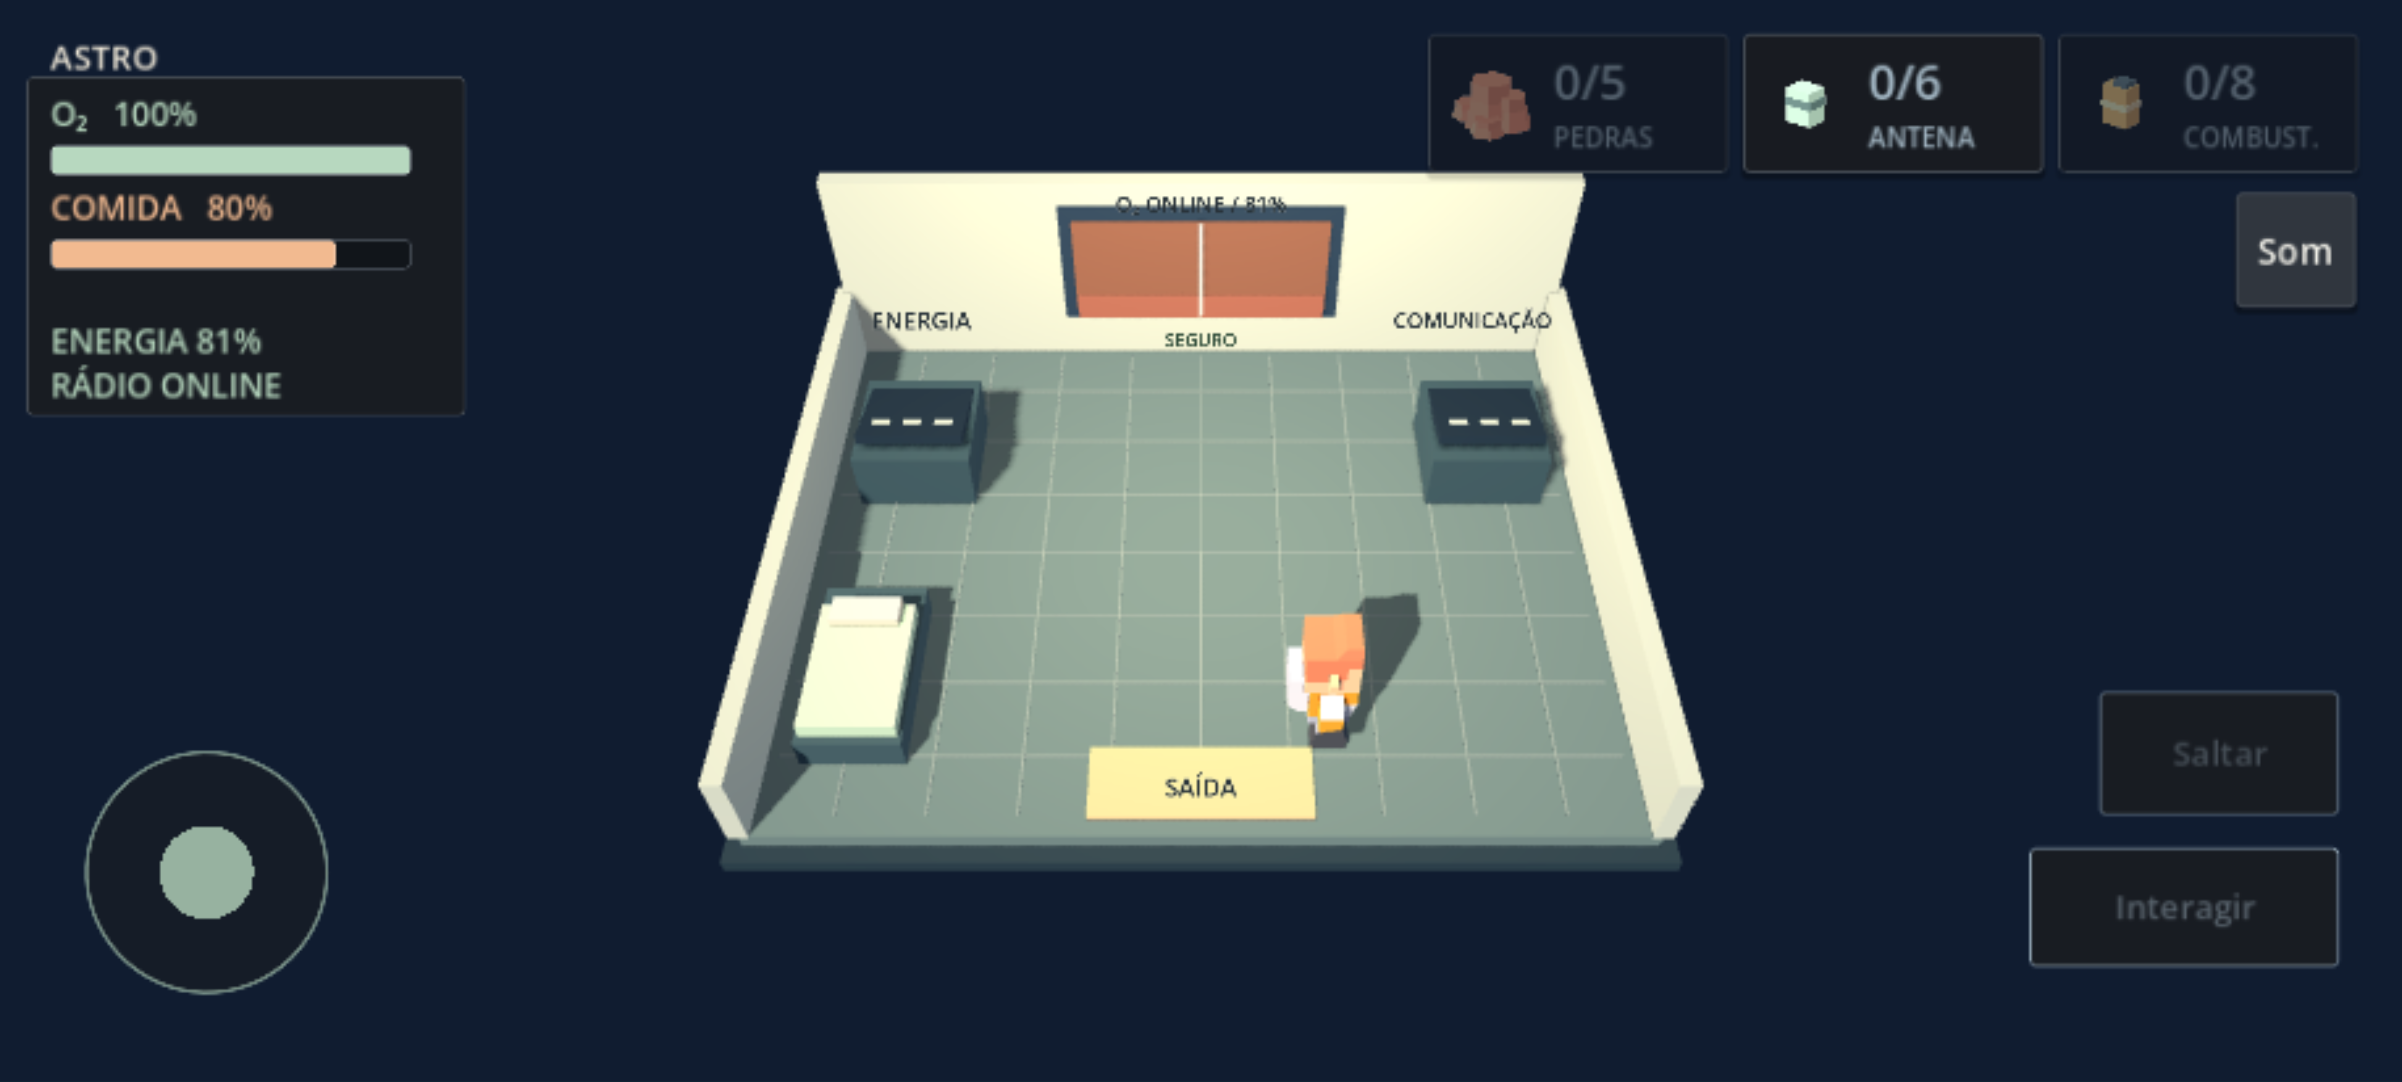
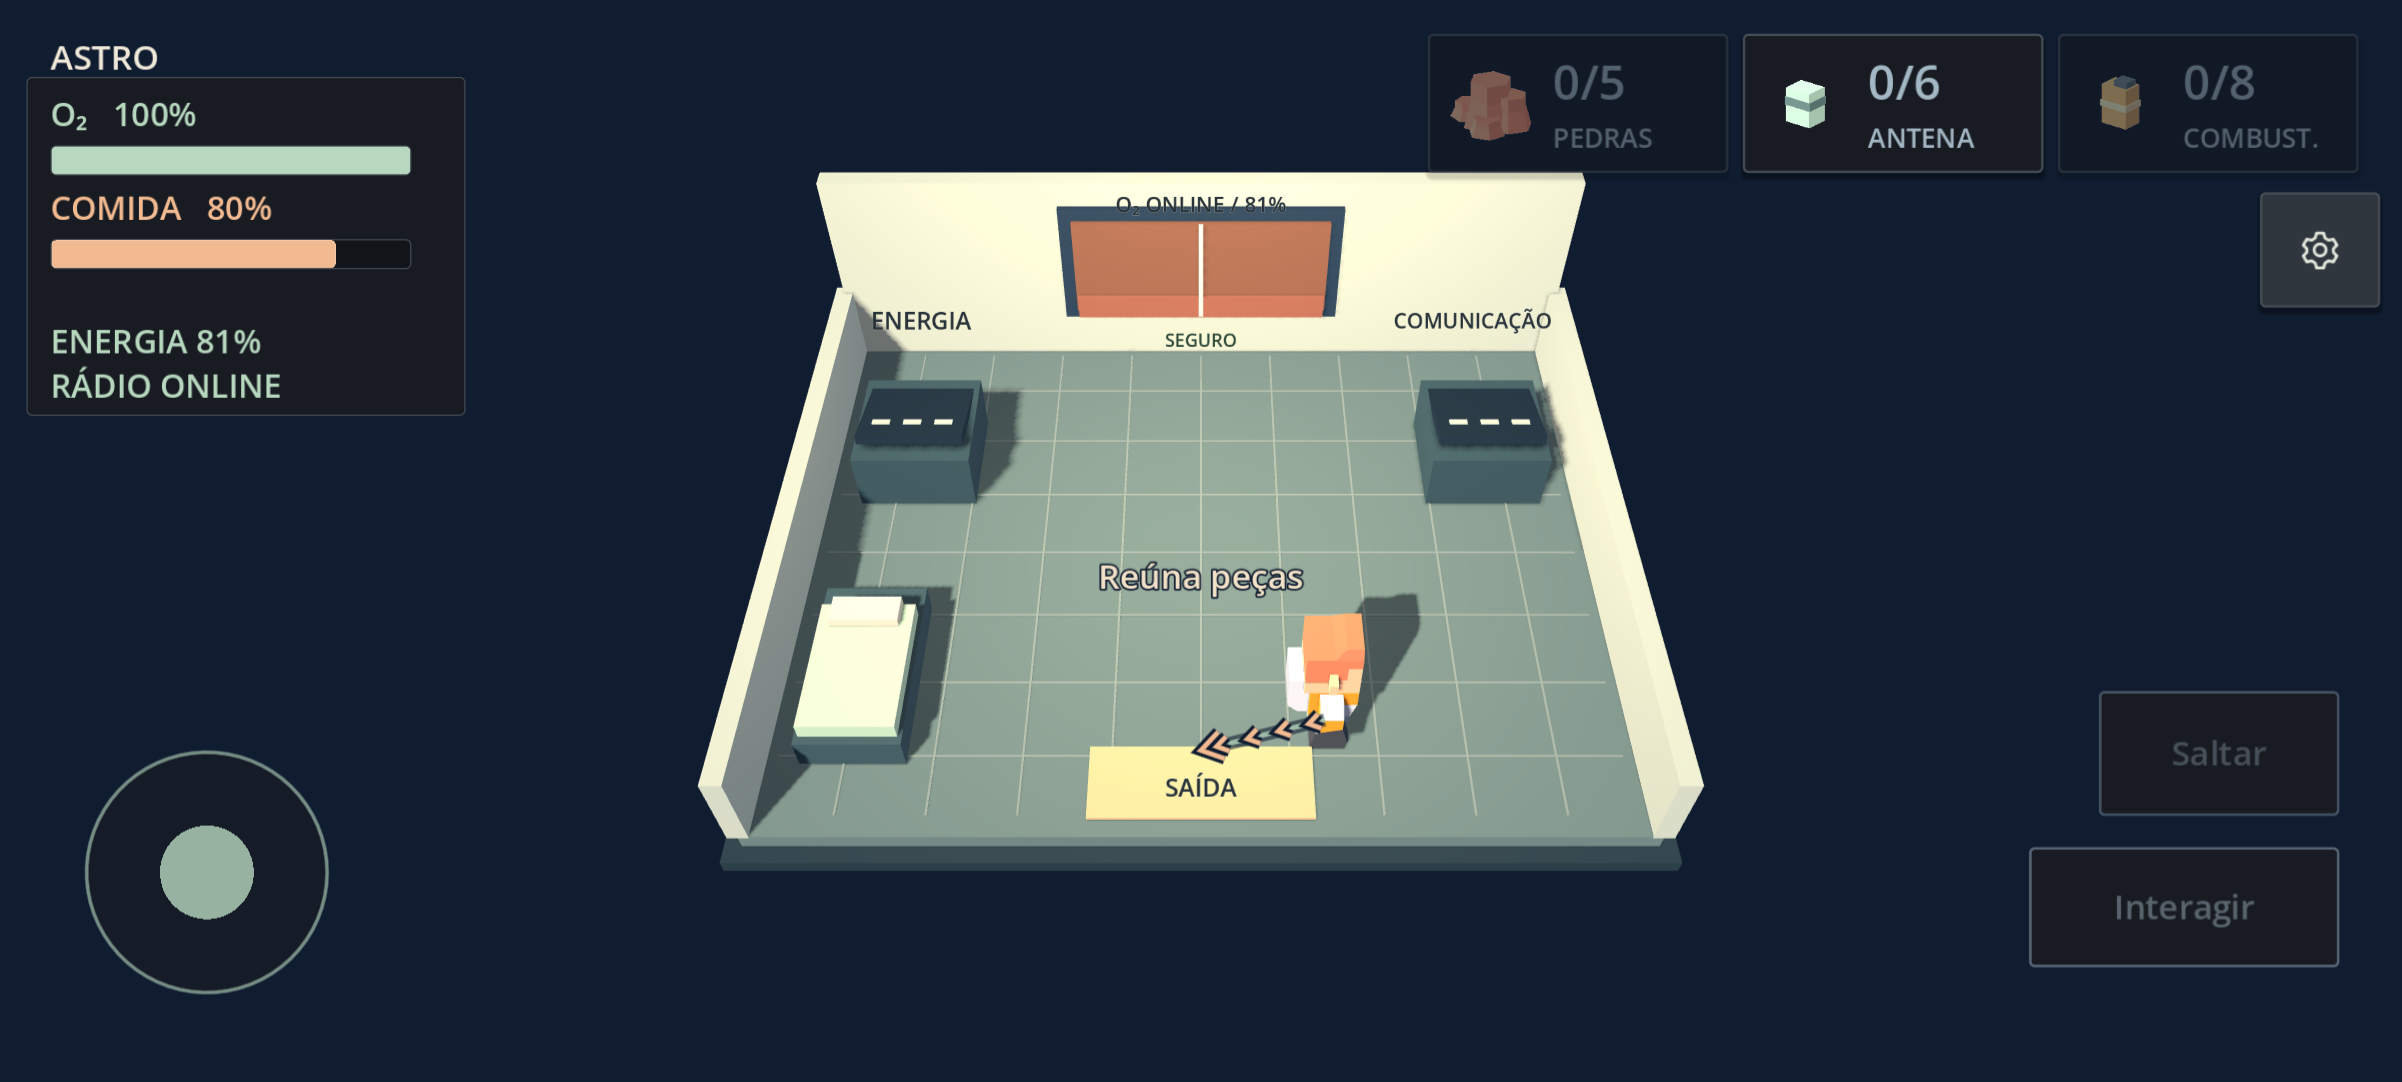
Prioritize single objectives, draw astronaut routes and fix mobile canvas sizing

diff --git a/web/shell.html b/web/shell.html
@@ -7,8 +7,8 @@
   <title>Astro · Um Pequeno Recomeço</title>
   <style>
     html,body { margin:0; width:100%; height:100%; overflow:hidden; background:#102334; color:#f0e9d9; font:18px system-ui,sans-serif; overscroll-behavior:none }
-    #game { position:fixed; top:env(safe-area-inset-top,0px); right:env(safe-area-inset-right,0px); bottom:env(safe-area-inset-bottom,0px); left:env(safe-area-inset-left,0px) }
-    canvas { display:block; width:100%; height:100%; touch-action:none; outline:none }
+    #game { position:fixed; top:0; left:0; width:100vw; height:100dvh; box-sizing:border-box; padding:env(safe-area-inset-top,0px) env(safe-area-inset-right,0px) env(safe-area-inset-bottom,0px) env(safe-area-inset-left,0px) }
+    canvas { display:block; width:100% !important; height:100% !important; touch-action:none; outline:none }
     #status { position:fixed; inset:0; display:flex; align-items:center; justify-content:center; flex-direction:column; gap:20px; padding:28px; background:#102334; text-align:center }
     progress { width:min(360px,80vw); accent-color:#b7d8bf }
     #error { max-width:600px; line-height:1.6 }
@@ -27,10 +27,31 @@
     const canvas = document.getElementById('canvas');
     const area = document.getElementById('game');
     function resize() {
-      canvas.width = Math.max(1, area.clientWidth);
-      canvas.height = Math.max(1, area.clientHeight);
+      const viewport = window.visualViewport;
+      area.style.width = (viewport ? viewport.width : window.innerWidth) + 'px';
+      area.style.height = (viewport ? viewport.height : window.innerHeight) + 'px';
+      area.style.left = (viewport ? viewport.offsetLeft : 0) + 'px';
+      area.style.top = (viewport ? viewport.offsetTop : 0) + 'px';
+      const rect = canvas.getBoundingClientRect();
+      const ratio = window.devicePixelRatio || 1;
+      const width = Math.max(1, Math.round(rect.width * ratio));
+      const height = Math.max(1, Math.round(rect.height * ratio));
+      if (canvas.width !== width) canvas.width = width;
+      if (canvas.height !== height) canvas.height = height;
     }
-    new ResizeObserver(resize).observe(area);
+    let resizeFrame = 0;
+    function scheduleResize() {
+      cancelAnimationFrame(resizeFrame);
+      resizeFrame = requestAnimationFrame(resize);
+    }
+    new ResizeObserver(scheduleResize).observe(area);
+    window.addEventListener('resize', scheduleResize);
+    window.addEventListener('orientationchange', scheduleResize);
+    document.addEventListener('fullscreenchange', scheduleResize);
+    if (window.visualViewport) {
+      window.visualViewport.addEventListener('resize', scheduleResize);
+      window.visualViewport.addEventListener('scroll', scheduleResize);
+    }
     resize();
     canvas.addEventListener('contextmenu', event => event.preventDefault());
     canvas.addEventListener('touchmove', event => event.preventDefault(), {passive:false});
@@ -42,6 +63,7 @@
         if (total > 0) { bar.max = total; bar.value = current; }
       }
     }).then(() => {
+      scheduleResize();
       document.getElementById('status').style.display = 'none';
       canvas.focus();
     }).catch(error => {

diff --git a/README.md b/README.md
@@ -4,6 +4,8 @@ Uma miniaventura cozy 3D no Godot 4.7.2. Isolado em Marte, explore o planeta, ma
 
 Escolha **Fácil, Médio ou Difícil** antes de começar. O consumo de reservas e a frequência de panes/radiação usam multiplicadores de 0,8 / 1 / 1,2, acrescidos gradualmente de até 35% conforme os 19 itens são coletados. A janela de aviso solar de 5 s e a resistência de 3 s permanecem constantes. Setas animadas orientam as duas primeiras peças de antena e a primeira necessidade de oxigênio, comida, energia, transmissão e abrigo solar. Após resolver cada necessidade, sua seta não reaparece naquela partida.
 
+A orientação mostra um objetivo por vez, priorizando a sobrevivência e a menor reserva. Uma rota com pontas animadas parte do astronauta, acompanha o terreno até o destino e termina no horizonte quando o destino fica no outro lado do planeta. No **fácil**, objetivos voltam sempre que necessários e acompanham coleta, suprimentos e resgate até o final; no **médio/difícil**, cada necessidade é orientada somente na primeira ocorrência. O guia inicial apresenta recuperar oxigênio e encontrar comida como objetivos. No navegador, o canvas acompanha o viewport visível, a densidade de pixels, áreas seguras, rotação e mudanças da barra de endereço.
+
 Nas configurações, **Português / English** altera menus, guia, HUD, minigames, mensagens e legendas dos vídeos inicial/final. Os vídeos originais não têm fala nem textos gravados na imagem; usam legendas traduzidas. Idioma e dificuldade ficam salvos entre sessões.
 
 ## Jogar

diff --git a/docs/FEATURE_VALIDATION.md b/docs/FEATURE_VALIDATION.md
@@ -1,5 +1,7 @@
 # Validação das features
 
+Orientação contextual: `tests/progression_guidance.gd` verifica a troca de prioridade entre comida e O₂, um único objetivo ativo, ausência de repetição em médio/difícil e repetição no fácil. A rota projetada começa no astronauta e segue a superfície sem atravessar o planeta. `tests/web_options.cjs` verifica a resolução física do canvas contra CSS × DPR, redimensionamento entre 568×320 / 844×335 / 844×390, retrato e retorno a 915×412, além de confirmar uma rota desenhada. Ações mobile continuam usando as coordenadas do canvas e áreas seguras.
+
 `tests/progression_guidance.gd` verifica os três modos, aumento gradual do consumo com a coleta, primeira orientação para O₂/comida/energia/sinal/radiação e legendas em inglês. `tests/web_options.cjs` percorre menu, seletor de idioma, vídeo e primeira seta no desktop e Pixel 7 emulado, incluindo persistência após recarregar. O aviso de radiação mantém os 5 s; tolerâncias de radiação, fome e O₂ são de 3 s. As contagens de reservas aparecem apenas quando as barras zeram.
 
 Base: main `f9259e0`. Ambiente: Windows, Godot 4.7.2, Chrome. Capturas geradas pelo jogo e pelo export web.
